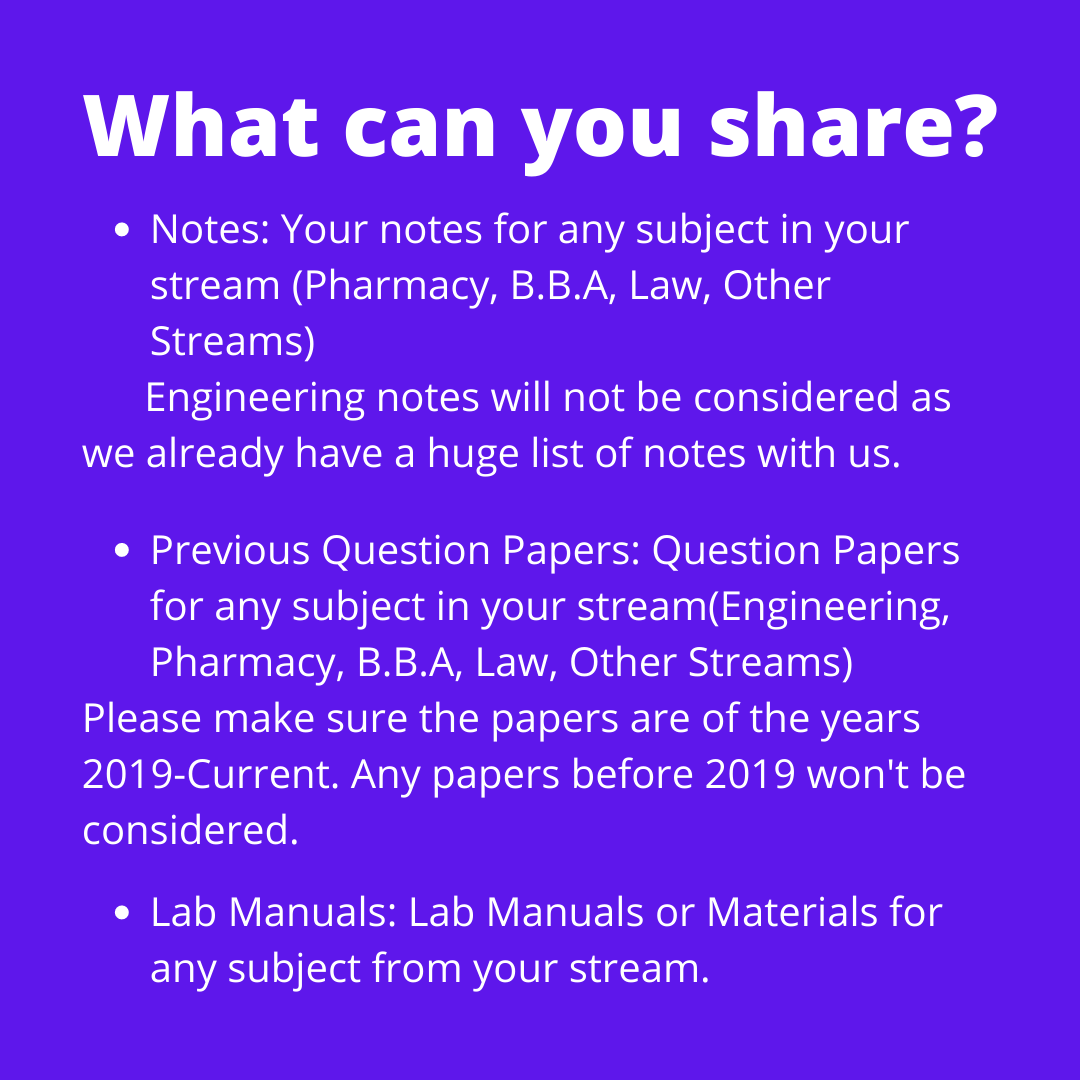
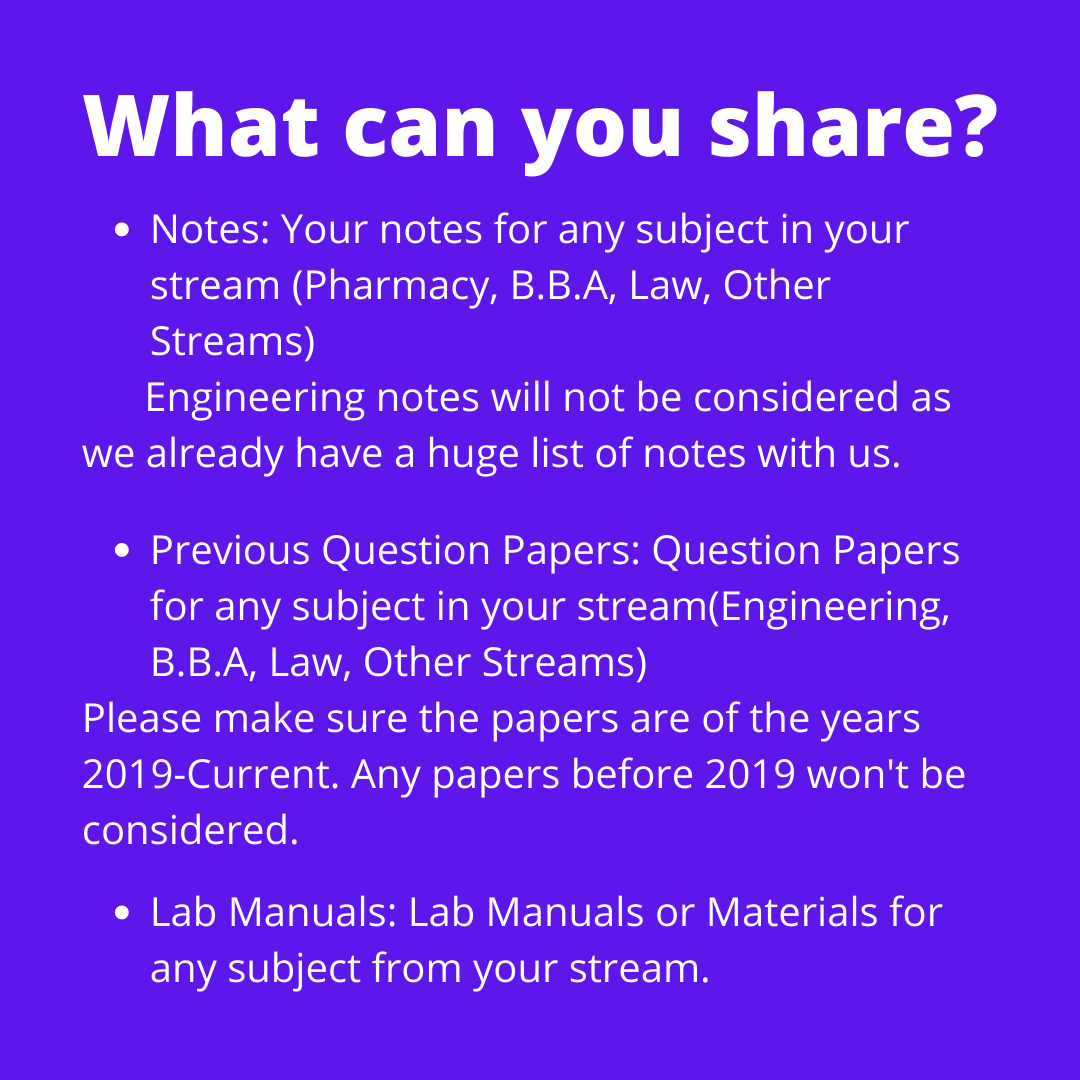
added submissionclosed page and lab manuals submission page in submissions.js

Changed region(s): [[0.1528, 0.5806, 0.6111, 0.6417], [0.6417, 0.5806, 0.7944, 0.6417]]

diff --git a/src/views/SubmissionClosed.js b/src/views/SubmissionClosed.js
@@ -1,0 +1,65 @@
+import React, { useEffect, useState } from "react";
+import firebase from './Firebase';
+import classNames from 'classnames';
+import { SectionProps } from '../utils/SectionProps';
+import { Link , useLocation } from 'react-router-dom';
+
+const propTypes = {
+  ...SectionProps.types
+}
+
+const defaultProps = {
+  ...SectionProps.defaults
+}
+
+const styles = {
+  table:{
+    width: '75%',
+    marginLeft: 'auto',
+    marginRight: 'auto',
+    border: '1px groove white',
+    marginTop: '20px'
+  },
+  th:{
+    textAlign:'center'
+  }
+}
+
+const SubmissionClosed = (
+  className,
+  topOuterDivider,
+  bottomOuterDivider,
+  topDivider,
+  bottomDivider,
+  hasBgColor,
+  invertColor,
+  ...props
+) => {
+
+
+
+  const outerClasses = classNames(
+      'hero section center-content',
+      topOuterDivider && 'has-top-divider',
+      bottomOuterDivider && 'has-bottom-divider',
+      hasBgColor && 'has-bg-color',
+      invertColor && 'invert-color',
+      className
+    );
+
+
+  return (
+    <section
+      {...props}
+      className={outerClasses}>
+            <div className="innerClasses">
+                    The resources for this section have already been gathered, hence this section is now closed.
+            </div>
+      </section>
+  );
+}
+
+SubmissionClosed.propTypes = propTypes;
+SubmissionClosed.defaultProps = defaultProps;
+
+export default SubmissionClosed;

diff --git a/src/views/Submissions.js b/src/views/Submissions.js
@@ -82,8 +82,8 @@ const Submissions = (
                 </Link>
 
                 <Link to={{
-                    pathname: "/SubmissionProcess",
-                    state: { title: "Previous Pharmacy Question Papers Submission", dbName: "pharmacy_qp"}}}>
+                    pathname: "/SubmissionClosed"
+                  }}>
                 <li>Previous Pharmacy Question Papers (2019-current)</li>
                 </Link>
 
@@ -103,6 +103,12 @@ const Submissions = (
                     pathname: "/SubmissionProcess",
                     state: { title: "Previous Other Stream Question Papers Submission", dbName: "other_qp"}}}>
                 <li>Previous Other Stream Question Papers (2019-current) (B.Sc,B.Com,etc...)</li>
+                </Link>
+
+                <Link to={{
+                    pathname: "/SubmissionProcess",
+                    state: { title: "Lab Manuals Submission", dbName: "lab_manuals"}}}>
+                <li>Lab Manuals Submission (any)</li>
                 </Link>
 
               </ol>

diff --git a/src/App.js b/src/App.js
@@ -19,6 +19,7 @@ import ContactUs from './views/ContactUs';
 import Submissions from './views/Submissions';
 import SubmissionProcess from './views/SubmissionProcess';
 import SubmissionDone from './views/SubmissionDone';
+import SubmissionClosed from './views/SubmissionClosed';
 
 // Initialize Google Analytics
 ReactGA.initialize(process.env.REACT_APP_GA_CODE);
@@ -57,6 +58,7 @@ const App = () => {
           <AppRoute exact path="/Submissions" component={Submissions} layout={LayoutDefault} />
           <AppRoute exact path="/SubmissionProcess" component={SubmissionProcess} layout={LayoutDefault} />
           <AppRoute exact path="/SubmissionDone" component={SubmissionDone} layout={LayoutDefault} />
+          <AppRoute exact path="/SubmissionClosed" component={SubmissionClosed} layout={LayoutDefault} />
         </Switch>
       )} />
   );

diff --git a/src/views/SubmissionProcess.js b/src/views/SubmissionProcess.js
@@ -110,6 +110,7 @@ const SubmissionProcess = (
 
 
     const handleSubmit = (e) => {
+      
       e.preventDefault();
       db.collection(dbName).add({
         name: resourceName,
